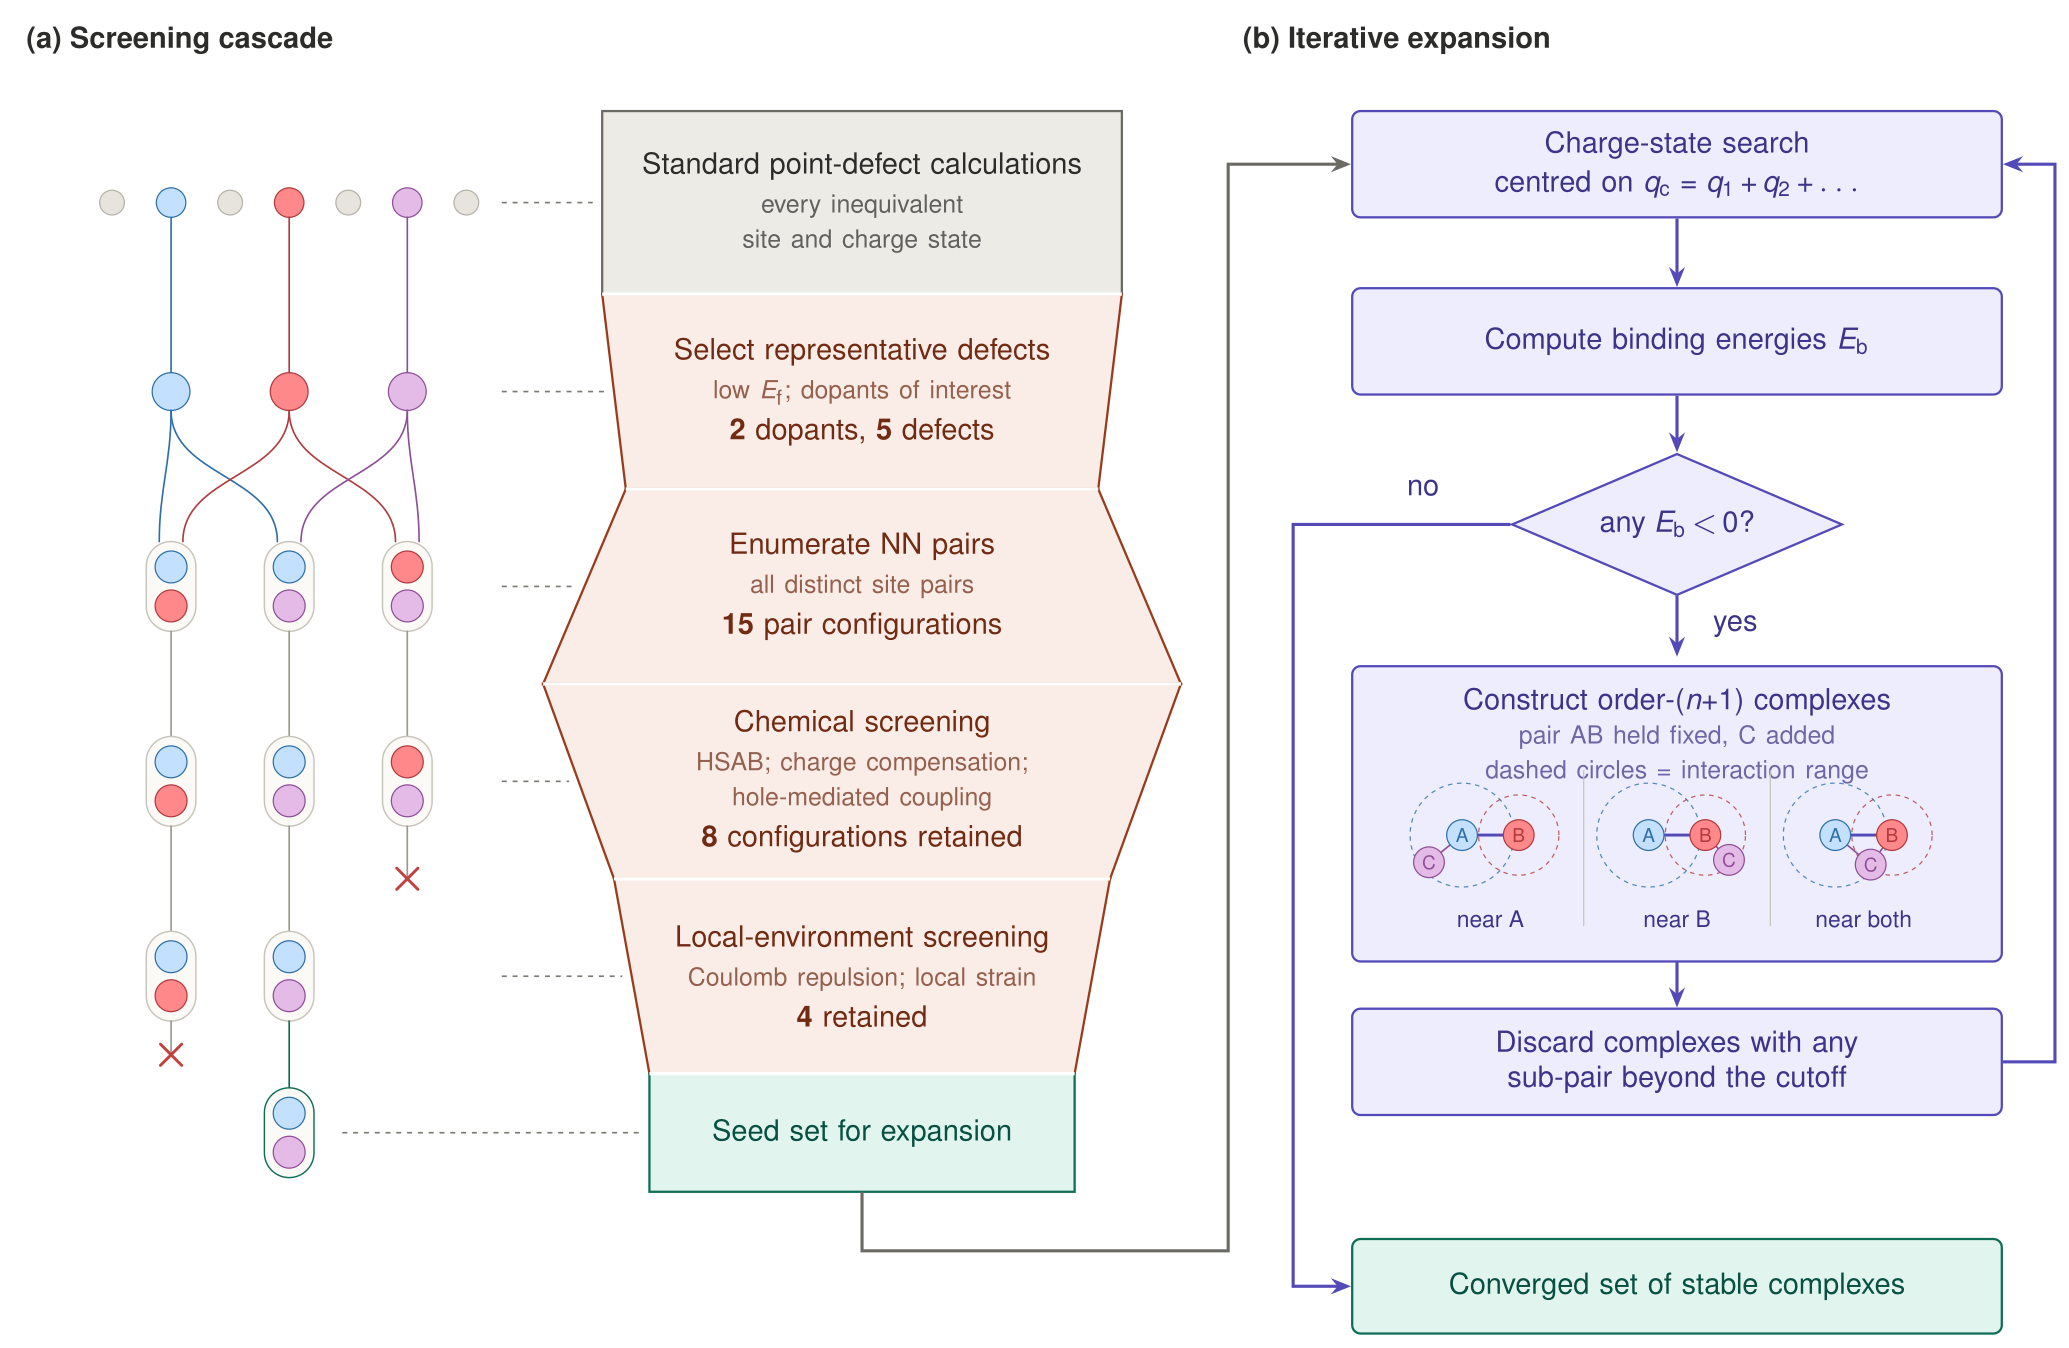
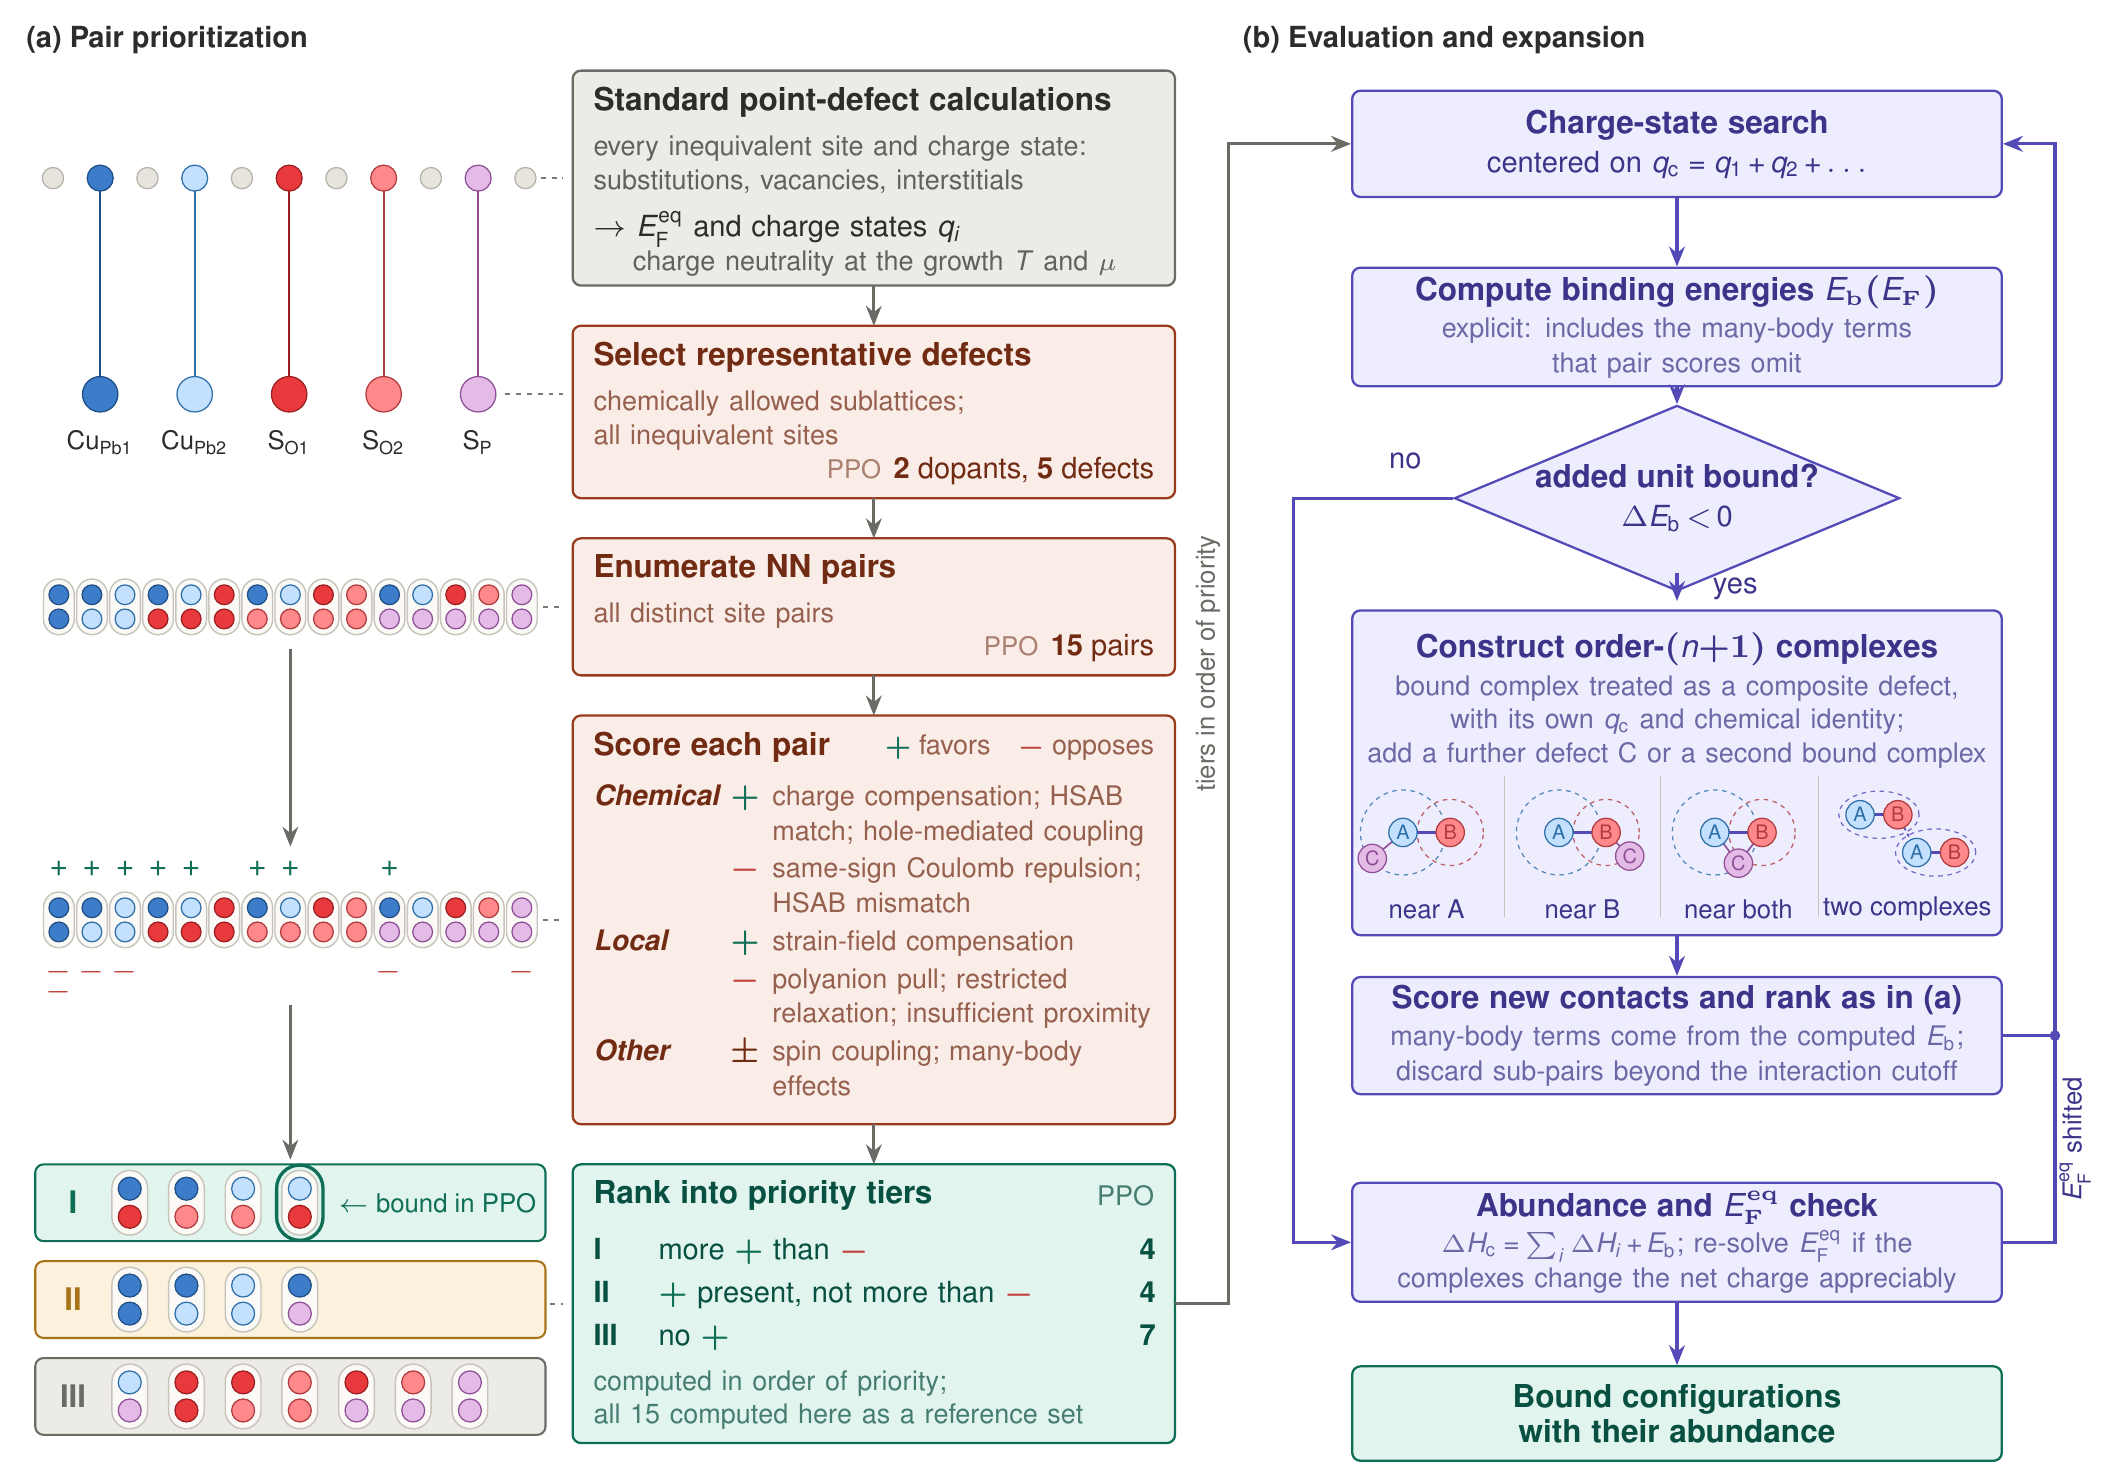
release: v0.3.1
README: update to the second-round workflow figure (pair prioritization
into tiers; evaluation and expansion with the abundance/E_F^eq check),
refresh the caption and introduction accordingly.

docs/fig5-workflow.png: replace with the v12 figure from the paper.

Version: 0.3.0 -> 0.3.1 (version source, CITATION.cff, changelog).

diff --git a/src/codopex/_version.py b/src/codopex/_version.py
@@ -4,4 +4,4 @@ Kept dependency-free so the build backend can read it statically
 (``[tool.setuptools.dynamic] version = {attr = "codopex._version.__version__"}``).
 """
 
-__version__ = "0.3.0"
+__version__ = "0.3.1"

diff --git a/README.md b/README.md
@@ -8,9 +8,12 @@
 Generate symmetry-inequivalent co-doping defect-pair and higher-order
 complexes in a host supercell.
 
-**codopex** automates the configurational enumeration behind co-doping
-studies: given a pristine supercell and a set of substitution reactions
-(e.g. Cu at Pb sites, S at O sites), it
+In a host with several inequivalent sites the candidate space grows fast: in
+Pb3(PO4)2, two dopant elements already produce fifteen symmetry-inequivalent
+pairs, and every further defect multiplies the count.
+**codopex** automates the enumeration behind such co-doping studies: given a
+pristine supercell and a set of substitution reactions (e.g. Cu at Pb sites,
+S at O sites), it
 
 1. discovers every inequivalent *single-defect type* (a dopant on one
    pristine site-symmetry class, labelled `{dopant}_{host}_{symmetry}`,
@@ -31,9 +34,13 @@ line (`codopex --help`).
 
 ![Physically guided workflow for constructing and screening co-doping configurations](docs/fig5-workflow.png)
 
-*The workflow codopex supports (Fig. 5 of the accompanying paper): (a) a
-screening cascade that reduces the pair space to a seed set, and (b) the
-iterative expansion of bound pairs into higher-order complexes.*
+*The physically guided workflow from the accompanying paper (Fig. 5): (a) each
+pair is scored — +/− marks for the interactions expected to favor or oppose its
+binding — and ranked into priority tiers; (b) the ranked pairs are evaluated
+with DFT and bound complexes are expanded order by order, ending in an
+abundance and equilibrium-Fermi-level check. codopex implements the
+enumeration steps: defect-type discovery, pair enumeration and the
+construction of higher-order complexes.*
 
 ## Installation
 

diff --git a/CHANGELOG.md b/CHANGELOG.md
@@ -5,7 +5,7 @@ All notable changes to this project are documented in this file.
 The format is based on [Keep a Changelog](https://keepachangelog.com/en/1.1.0/),
 and this project adheres to [Semantic Versioning](https://semver.org/spec/v2.0.0.html).
 
-## [Unreleased]
+## [0.3.1] - 2026-10-16
 
 ### Added
 
@@ -18,6 +18,13 @@ and this project adheres to [Semantic Versioning](https://semver.org/spec/v2.0.0
   ΔE_b, many-body departure, tiers, abundance, Fermi-level shift) and fill-in
   templates.  The directory is excluded from ruff: the helper script is a
   standalone asset, not library code.
+
+### Changed
+
+- README now matches the second-round revision of the paper: the workflow
+  figure is replaced by the pair-prioritization / evaluation-and-expansion
+  version (tiers, complex–complex expansion, abundance and E_F^eq check), and
+  the caption and introduction describe the workflow in the same terms.
 
 ## [0.3.0] - 2026-09-20
 
@@ -81,7 +88,8 @@ untouched; result files saved by 0.2.0 still load (unknown keys are ignored).
 - Regression suite against the original SAGAR workflow on the
   Pb3(PO4)2 Cu-S case (`tests/data/ppo`, see `docs/regression.md`).
 
-[Unreleased]: https://github.com/Kanrw/codopex/compare/v0.3.0...HEAD
+[Unreleased]: https://github.com/Kanrw/codopex/compare/v0.3.1...HEAD
+[0.3.1]: https://github.com/Kanrw/codopex/compare/v0.3.0...v0.3.1
 [0.3.0]: https://github.com/Kanrw/codopex/releases/tag/v0.3.0
 [0.2.0]: https://github.com/Kanrw/codopex/releases/tag/v0.2.0
 [0.1.0]: https://github.com/Kanrw/codopex/releases/tag/v0.1.0
